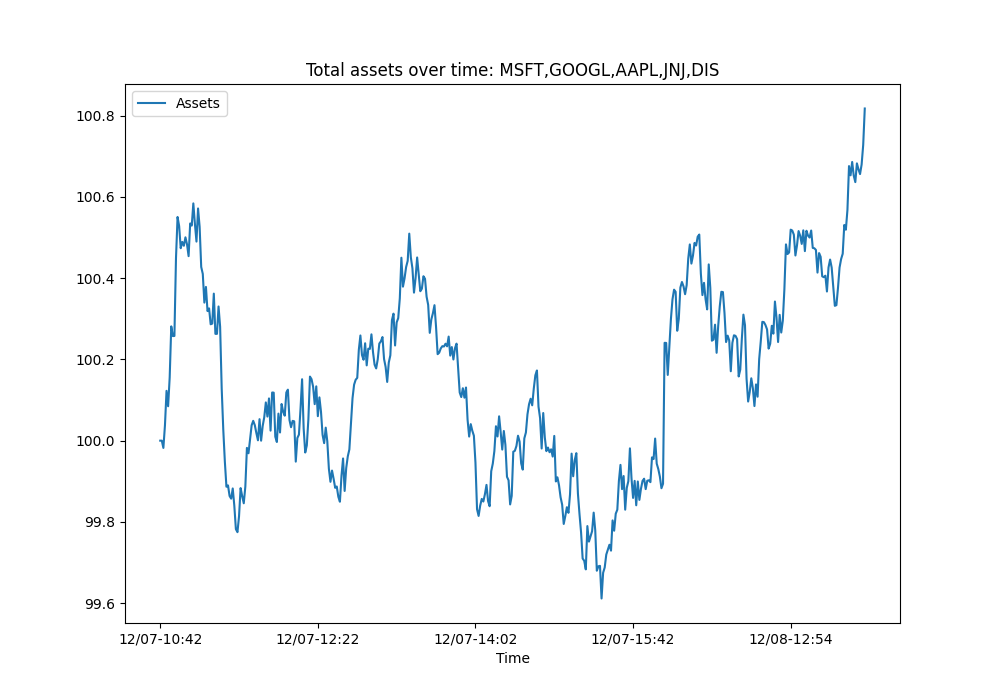
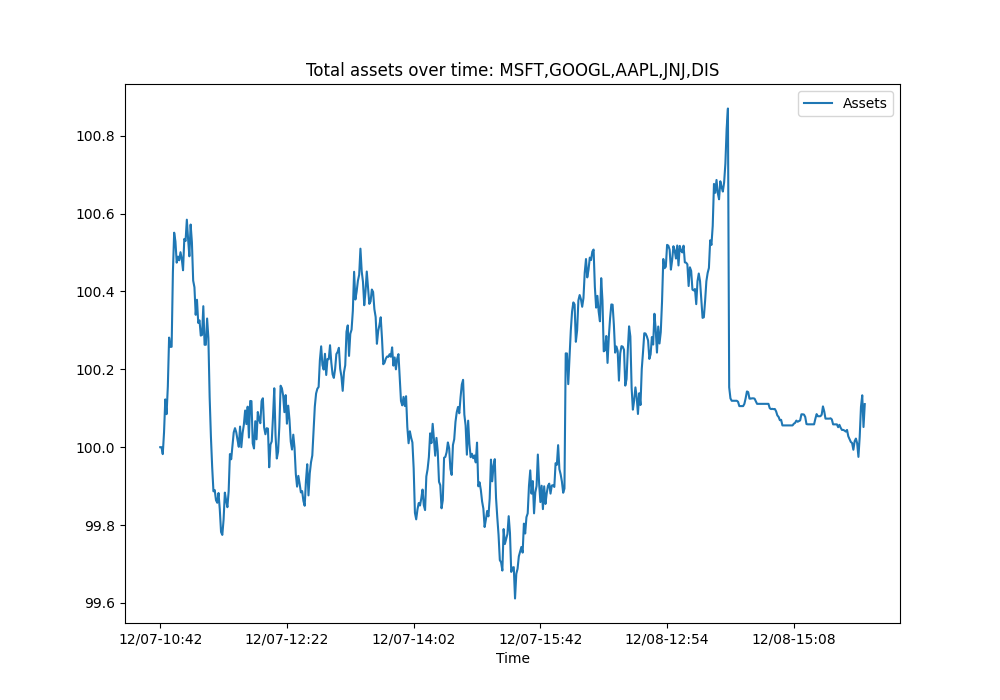
test run

diff --git a/src/main/java/me/JordanBotfort/bot/Commands.java b/src/main/java/me/JordanBotfort/bot/Commands.java
@@ -57,7 +57,7 @@ public class Commands extends ListenerAdapter {
                             }
                             ProcessBuilder pb = new ProcessBuilder(python, jordan, User, tickers);
                             // pb.redirectErrorStream(true);
-                            // pb.inheritIO();
+                            pb.inheritIO();
                             Process p = pb.start();
                             pb = new ProcessBuilder(python, plot, User);
                             // pb.redirectErrorStream(true);
@@ -131,15 +131,15 @@ public class Commands extends ListenerAdapter {
 
             else if (opt.equals("!log")) {
                 int lines = 0;
-                if (m.split(" ").length > 1) {
-                    lines = Integer.parseInt(m.split(" ")[1]);
-                }
+                if (m.split(" ").length > 1) lines = Integer.parseInt(m.split(" ")[1]);
                 else lines = 5;
                 e.getChannel().sendMessage(String.format("Displaying the last %d transactions", lines)).queue();
                 File log = new File("./" + User + "/" + "logs.txt");
+                String logs = "";
                 try {
                     Scanner scan = new Scanner(log);
-                    while(scan.hasNext() && (lines-- > 0)) e.getChannel().sendMessage(scan.nextLine()).queue(); 
+                    while(scan.hasNext() && (lines-- > 0)) logs += scan.nextLine() + "\n";
+                    e.getChannel().sendMessage(logs).queue(); 
                     scan.close();
                 } catch (FileNotFoundException e1) {
                     e.getChannel().sendMessage("Not trading. Use !track to add stocks and !run to start trading!").queue();

diff --git a/jordan.py b/jordan.py
@@ -91,8 +91,10 @@ except FileNotFoundError:
     assets["fund"] = 100.0
 assets["stocks"] = 0.0
 now = datetime.now().strftime('%m/%d-%H:%M')
-log = open("./" + user + "/logs.txt", "r+")
+log = open("./" + user + "/logs.txt", "a+")
+log.seek(0)
 currLog = log.read()
+log.close()
 
 
 for ticker in tickers:
@@ -111,16 +113,16 @@ for ticker in tickers:
 
     if(shares):
         for x in shares:
-            if (x < curr.low and sellCSPattern(prev2, prev1, curr) or (x * 0.98) < curr.low):
+            if (x < curr.low and sellCSPattern(prev2, prev1, curr)) or curr.low / x < 0.95:
                 assets["fund"] += unit * curr.low / x
-                currLog = f"Sold {ticker} at {x:.2f}\n" + currLog
+                currLog = f"{now}: Sold {ticker} at {x}\n" + currLog
                 # log.write(f"Sold {ticker} at {x:.2f}\n")
                 shares.remove(x)
 
     if(assets["fund"] > unit and buyCSPattern(prev2, prev1, curr)):
         assets["fund"] -= unit
         # log.write("Buying " + ticker + " at " + str(curr.high) +  "\n")
-        currLog = "Buying " + ticker + " at " + str(curr.high) +  "\n" + currLog
+        currLog = now + ": Buying " + ticker + " at " + str(curr.high) +  "\n" + currLog
         shares.append(curr.high)
 
     #updates the shares list in assets dictionary
@@ -130,6 +132,7 @@ for ticker in tickers:
     total = assets.get("stocks", 0)
     for x in shares: total += 10 * curr.low/x
     assets["stocks"] = total
+log = open("./" + user + "/logs.txt", "w")
 log.write(currLog)
 log.close()
 

diff --git a/src/main/java/me/JordanBotfort/bot/Jordan.java b/src/main/java/me/JordanBotfort/bot/Jordan.java
@@ -11,7 +11,7 @@ public class Jordan extends ListenerAdapter
 {
     public static void main(String[] args) throws LoginException
     {
-        JDABuilder bot = JDABuilder.createDefault("MTAyNDY1OTY5NTg4MzAwNTk3Mg.GJ2W_w.CtKdpQLIcT5rcIWXBveW8jYEqAcjXqkI_-JOfM");
+        JDABuilder bot = JDABuilder.createDefault("");
         bot.addEventListeners(new Commands());
         bot.enableIntents(GatewayIntent.DIRECT_MESSAGES);
         bot.build();
